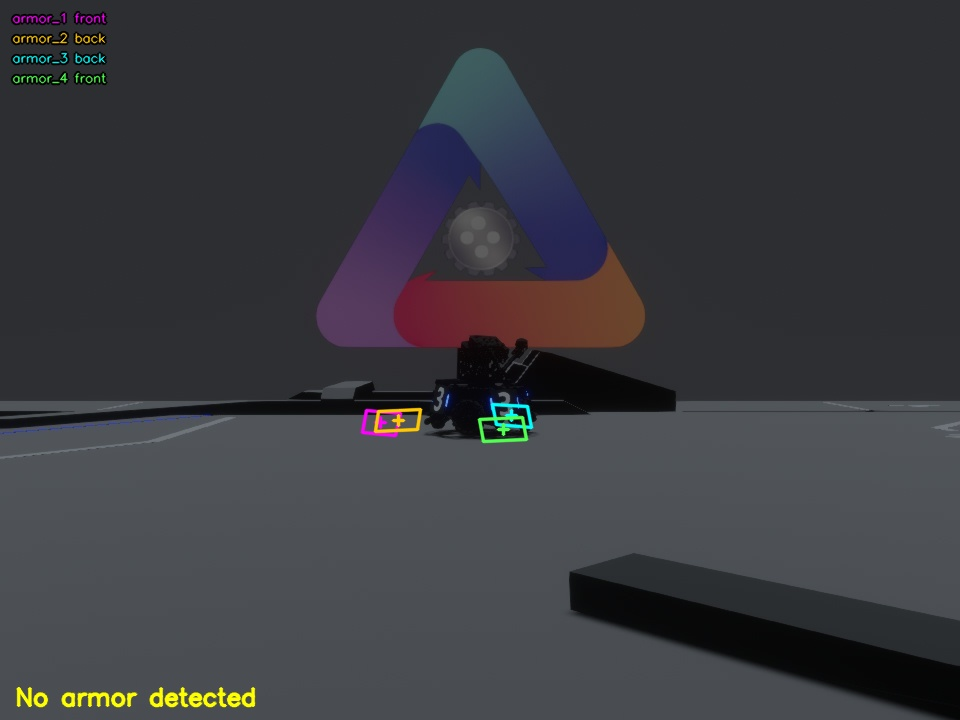
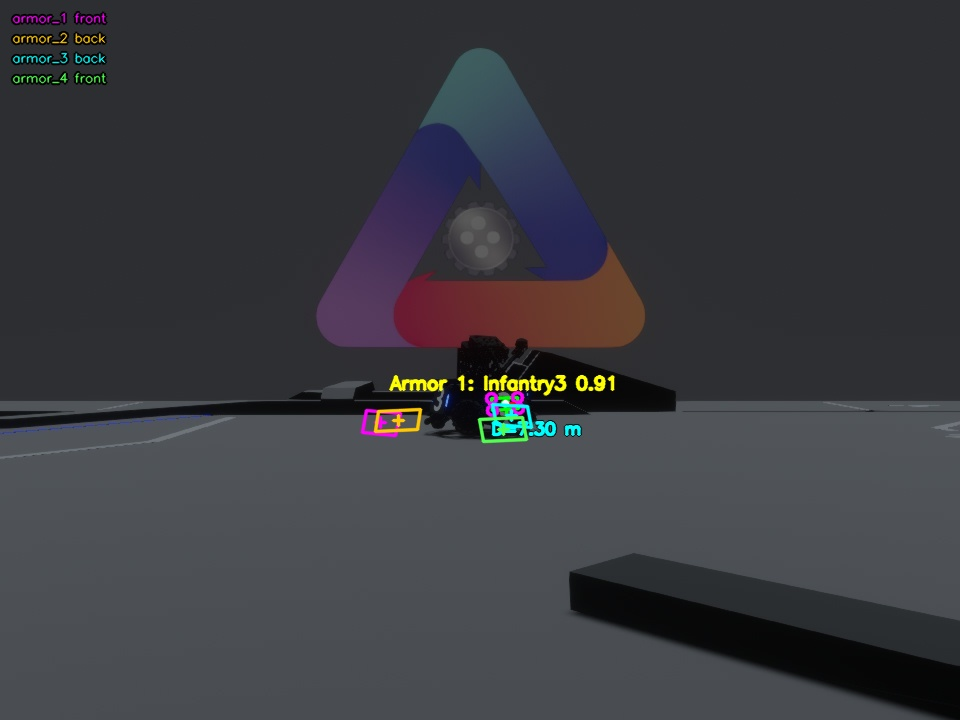
1

Changed region(s): [[0.0, 0.9472, 0.2812, 1.0], [0.4062, 0.5194, 0.6562, 0.6111]]

diff --git a/src/main.cpp b/src/main.cpp
@@ -1,14 +1,12 @@
 #include "pipeline.hpp"
 #include "pnp_solver.hpp"
 #include "report.hpp"
-#include "test_image_ground_truth.hpp"
 #include "visualize.hpp"
 
 #include <algorithm>
 #include <cmath>
 #include <cstdint>
 #include <cstdlib>
-#include <filesystem>
 #include <iomanip>
 #include <iostream>
 #include <limits>
@@ -80,9 +78,7 @@ void printModelLoadWarning(const DetectionPipeline &pipeline)
 }
 
 int runImageMode(const cv::Mat &still_image, DetectionPipeline &pipeline,
-                 const PnPSolver &pnp_solver, const CameraParams &camera_params,
-                 const std::string &input_path,
-                 const TestImageGroundTruth *ground_truth, bool show_gui)
+                 const PnPSolver &pnp_solver, bool show_gui)
 {
     DetectionResult detection = pipeline.processFrame(still_image);
     printImageDetails(detection.lightbars, detection.armors, pipeline.matcher());
@@ -90,30 +86,14 @@ int runImageMode(const cv::Mat &still_image, DetectionPipeline &pipeline,
     const std::vector<PnPResult> pnp_results = pnp_solver.solveAll(detection.armors);
     printPnPResults(detection.armors, pnp_results);
 
-    std::vector<ProjectedTruthArmor> projected_truth;
-    if (ground_truth != nullptr)
-    {
-        projected_truth = projectTestImageGroundTruth(*ground_truth, camera_params);
-        printTestImageCalibration(*ground_truth, projected_truth, camera_params, still_image.size());
-        printTestImagePoseErrors(projected_truth, pnp_results);
-    }
-
     cv::Mat result = makeAnnotatedFrame(still_image, detection.armors);
     drawPnPResults(result, pnp_results, pnp_solver.cameraParams());
-    std::string output_image_path = kOutputImagePath;
-    if (ground_truth != nullptr)
+    if (!cv::imwrite(kOutputImagePath, result))
     {
-        const std::filesystem::path input(input_path);
-        output_image_path = (input.parent_path() /
-                             (input.stem().string() + "_calibration.jpg")).string();
-        drawTestImageGroundTruth(result, projected_truth);
-    }
-    if (!cv::imwrite(output_image_path, result))
-    {
-        std::cerr << "无法保存结果图片: " << output_image_path << std::endl;
+        std::cerr << "无法保存结果图片: " << kOutputImagePath << std::endl;
         return 1;
     }
-    std::cout << "结果图片已保存: " << output_image_path << std::endl;
+    std::cout << "结果图片已保存: " << kOutputImagePath << std::endl;
     if (show_gui)
     {
         cv::imshow("Tradition Armor Detection", result);
@@ -241,9 +221,7 @@ int main(int argc, char **argv)
         const CameraParams calibrated_camera = loadCameraParams(kCameraConfigPath);
         const CameraParams camera = adaptCameraParams(calibrated_camera, still_image.size());
         const PnPSolver pnp_solver(camera);
-        const TestImageGroundTruth *ground_truth = findTestImageGroundTruth(options.input_path);
-        return runImageMode(still_image, pipeline, pnp_solver, camera, options.input_path,
-                            ground_truth, show_gui);
+        return runImageMode(still_image, pipeline, pnp_solver, show_gui);
     }
     return runVideoMode(capture, video_info, pipeline, show_gui);
 }

diff --git a/src/report.cpp b/src/report.cpp
@@ -88,23 +88,22 @@ void printVideoSummary(int frame_index, int total_frames,
 void printPnPResults(const std::vector<Armor> &armors,
                      const std::vector<PnPResult> &results)
 {
-    std::cout << "PnP 位姿解算结果:" << std::endl;
+    bool printed_header = false;
     for (std::size_t i = 0; i < armors.size(); ++i)
     {
         const PnPResult *result = i < results.size() ? &results[i] : nullptr;
+        if (result == nullptr || !result->valid)
+            continue;
+
+        if (!printed_header)
+        {
+            std::cout << "PnP 位姿解算结果:" << std::endl;
+            printed_header = true;
+        }
         std::cout << "  Armor " << (i + 1) << " ("
                   << (armors[i].size == 0 ? "小板" : armors[i].size == 1 ? "大板" : "尺寸未知")
-                  << "): ";
-        if (result == nullptr || !result->valid)
-        {
-            std::cout << (result != nullptr && !result->message.empty()
-                              ? result->message
-                              : "未生成解算结果")
-                      << std::endl;
-            continue;
-        }
-
-        std::cout << std::fixed << std::setprecision(3)
+                  << "): "
+                  << std::fixed << std::setprecision(3)
                   << "distance=" << result->distance_m << " m"
                   << " yaw=" << result->yaw_deg << " deg"
                   << " pitch=" << result->pitch_deg << " deg"

diff --git a/include/armor.hpp b/include/armor.hpp
@@ -25,9 +25,9 @@ struct Armor
 struct ArmorParams
 {
     float max_len_diff_ratio = 0.35f; // 两灯条长度接近度 (长度差/较长者 的允许上限)
-    float min_dist_ratio = 0.8f;      // 中心距/平均长度 的下限
-    float max_dist_ratio = 4.5f;      // 中心距/平均长度 的上限
-    float ideal_dist_ratio = 2.6f;    // 理想间距比（实测一般 2.6~2.8 取值，用于打分，越接近越优）
+    float min_dist_ratio = 1.2f;      // 排除距离过近、可能属于同一灯条的轮廓
+    float max_dist_ratio = 3.5f;      // 测试图中有效灯条间距比均小于 2.3
+    float ideal_dist_ratio = 2.0f;    // 暗场测试图的有效配对间距比约为 1.8~2.3
     float max_parallel_err = 0.2f;    // 平行误差上限（对应两长轴夹角约 11.5°）
     float max_perp_err = 0.35f;       // 垂直误差上限（对应中心连线与长轴夹角约 20°）
     // 得分项权重

diff --git a/include/lightbar.hpp b/include/lightbar.hpp
@@ -20,11 +20,11 @@ struct Lightbar
 // 灯条检测参数
 struct LightbarParams
 {
-    double threshold = 200.0;      // 二值化阈值
+    double threshold = 35.0;        // 暗场下保留低亮度的自发光灯条
     double min_ratio = 3.0;        // 最小长宽比
     double max_ratio = 50.0;        // 最大长宽比
     double min_length = 5.0;       // 灯条长边最小像素数
-    int min_contour_size = 12;     // 轮廓点数下限
+    int min_contour_size = 4;      // CHAIN_APPROX_SIMPLE 会压缩矩形轮廓至约 4 个点
 };
 
 // 灯条检测器
